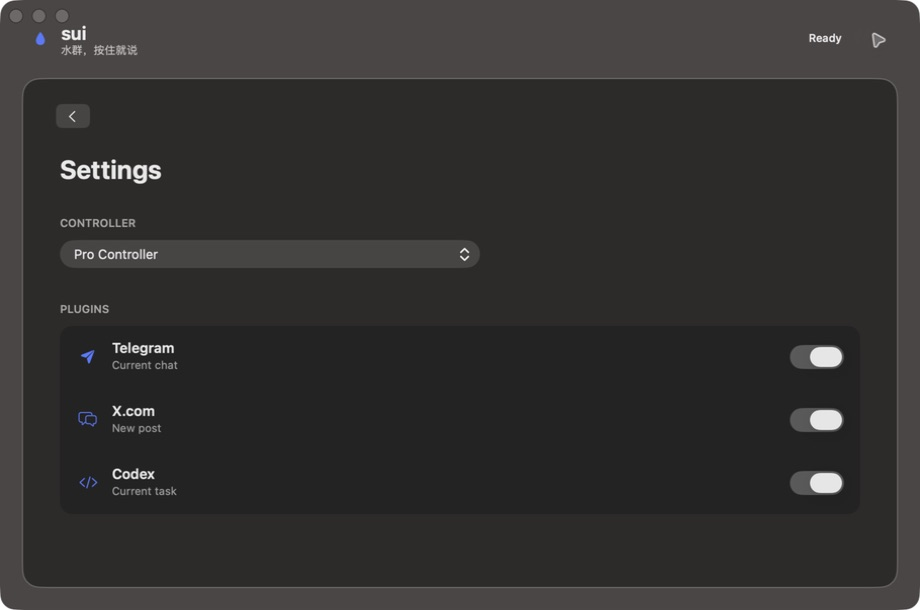
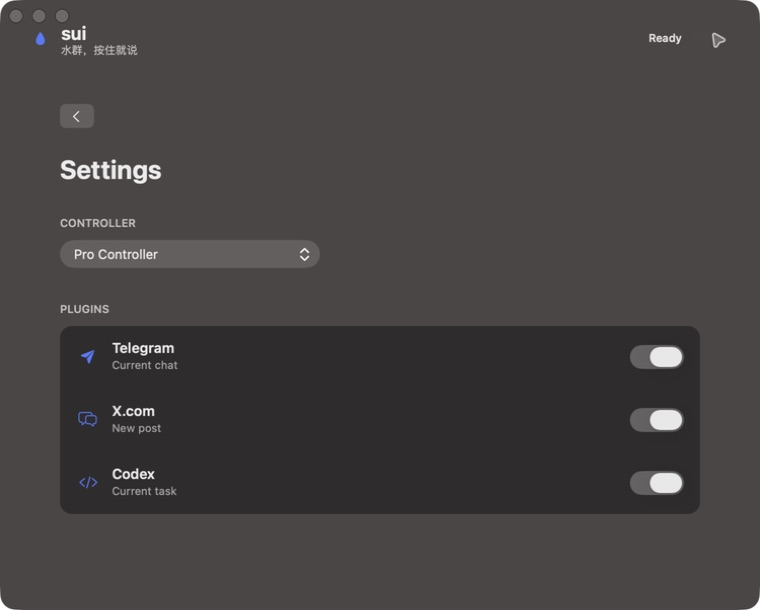
docs: record real app acceptance evidence

diff --git a/docs/testing.md b/docs/testing.md
@@ -14,15 +14,25 @@
 
 - App 能启动并显示唯一主窗口。
 - 识别到 `Pro Controller`。
-- A/B/Y 映射、外部 CC0 手柄矢量图与插件可用性灰置显示正常。
+- A/B/Y 映射、用户提供的 EPS 矢量图与插件可用性灰置显示正常。
+- EPS 白色画布已从 PostScript 绘制内容中移除，透明背景在真实 App 中通过。
+- 主窗口在 760×520、920×610 与系统 Zoom 三档真实尺寸下完成截图检查；控件无裁切，连线端点随图像缩放。
 - 设置在同一窗口切换，手柄下拉和三个插件开关可操作。
 - X.com 插件开关完成一次 off → on 往返，状态正确恢复。
+- 首次设置页展示麦克风、语音识别与辅助功能的真实授权状态。
+- 签名产物含 `com.apple.security.device.audio-input`，系统麦克风列表已出现 `sui.app` 且开关开启。
+- `sui.icns` 已嵌入 App bundle，系统列表显示水滴图标。
 
-![Mapping UI](screenshots/mapping.jpeg)
+![Minimum window](screenshots/mapping-minimum.jpeg)
+
+![Default window](screenshots/mapping-default.jpeg)
+
+![Large window](screenshots/mapping-large.jpeg)
 
 ![Settings UI](screenshots/settings.jpeg)
 
+![Microphone registration](screenshots/microphone-permission.jpeg)
+
 ## 未自动执行
 
-为避免向真实第三方会话发送内容，没有自动提交 Telegram/Codex 消息或 X 帖子。语音权限弹窗和真实 PTT 发送留给明确的测试会话做人工端到端验收。
-
+为避免向真实第三方会话发送内容，没有自动提交 Telegram/Codex 消息或 X 帖子。Telegram 已在真实首页状态检查：没有打开聊天时不存在 composer，符合“回到 sui 提示用户先打开聊天”的前置条件。Codex 出于 Computer Use 的安全限制不能由自动化读取；真实 PTT 发送仍留给明确的测试会话做人工端到端验收。

diff --git a/docs/acceptance.md b/docs/acceptance.md
@@ -2,16 +2,18 @@
 
 ## 构建
 
-- [ ] Xcode 27 使用 Apple Development 证书编译成功。
-- [ ] Debug App 可启动，Hardened Runtime 与麦克风权限描述存在。
+- [x] Xcode 27 使用 Apple Development 证书编译成功。
+- [x] Debug App 可启动，Hardened Runtime、麦克风说明与 audio-input entitlement 存在。
 - [ ] `.env`、Derived Data 和用户 Xcode 状态不进入 Git。
 
 ## 界面
 
-- [ ] 首屏是一张真实矢量手柄图，而不是设置表单。
-- [ ] A/B/Y 连线分别落到 Telegram、X.com、Codex 下拉菜单。
-- [ ] 无目标 App 时相应选项灰置。
-- [ ] 设置仍在同一窗口，只显示手柄与插件列表。
+- [x] 首屏是一张透明背景的真实矢量手柄图，而不是白色画布。
+- [x] A/B/Y 连线分别落到 Telegram、X.com、Codex 下拉菜单。
+- [x] 无目标 App 时相应选项灰置。
+- [x] 设置仍在同一窗口，只显示手柄与插件列表。
+- [x] 760×520、920×610 与系统 Zoom 尺寸均通过真实截图验收。
+- [x] 系统麦克风设置已注册 sui，并显示水滴 App 图标。
 - [ ] 关闭窗口后菜单栏图标仍可重新打开。
 
 ## 行为
@@ -26,4 +28,3 @@
 ## 人工测试安全线
 
 自动验收不实际发送 Telegram/Codex 消息，也不发布 X 帖子。端到端发送必须由用户打开明确的测试会话后再执行。
-
